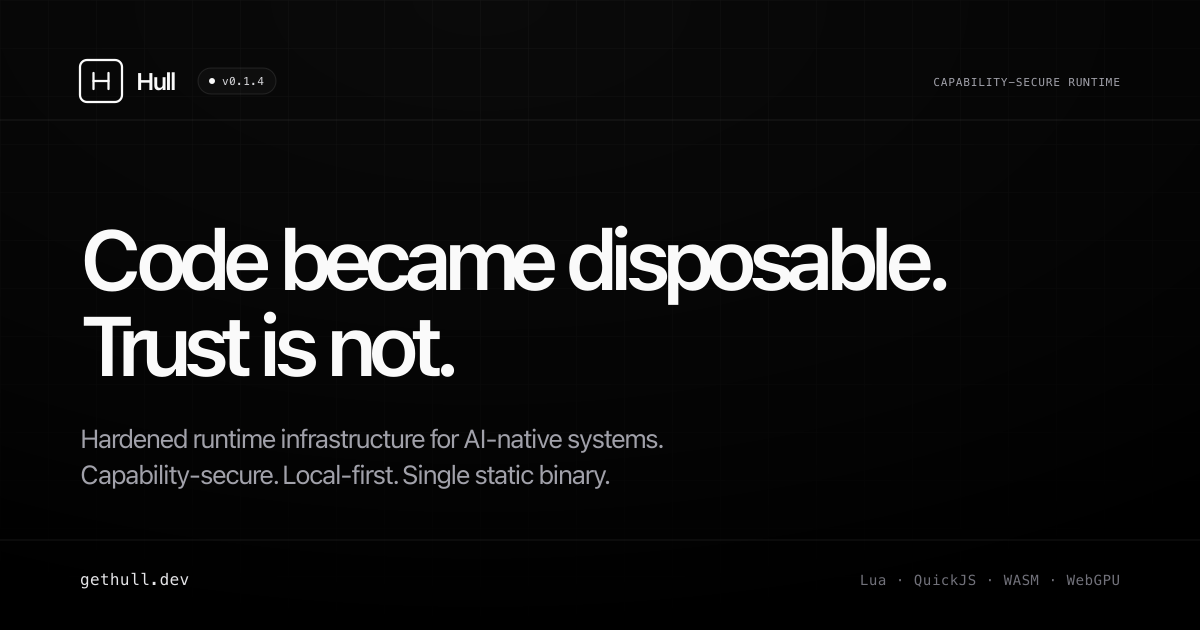
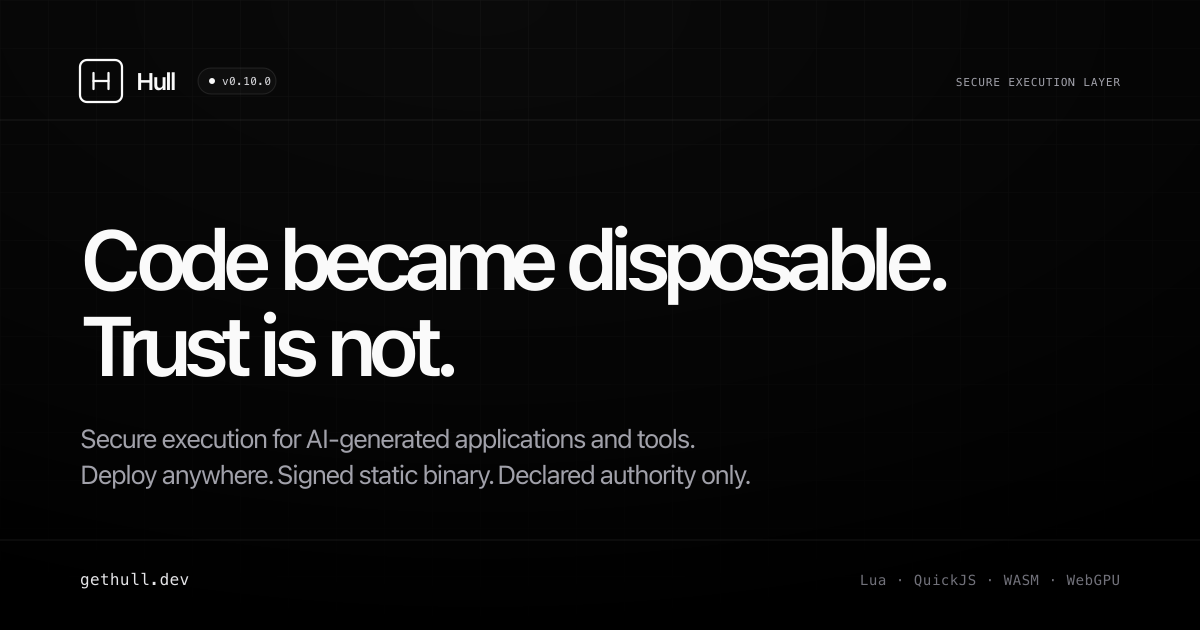
site: position Hull as secure execution for generated code

Changed region(s): [[0.0617, 0.6635, 0.6167, 0.7841], [0.7708, 0.1206, 0.925, 0.1508]]

diff --git a/site/index.html b/site/index.html
@@ -3,19 +3,19 @@
 <head>
   <meta charset="utf-8">
   <meta name="viewport" content="width=device-width, initial-scale=1">
-  <title>Hull. Hardened runtime for AI-native systems</title>
-  <meta name="description" content="Code became disposable. Trust is not. Hull is a hardened, capability-secure runtime for AI-native systems. Local-first, single static binary, every capability declared in the manifest and checked at a kernel-enforced boundary the script cannot cross.">
+  <title>Hull. Secure execution for AI-generated code</title>
+  <meta name="description" content="Run AI-generated applications and tools without ambient access to your machine, network, credentials, or data. Hull packages each app as a signed static binary and enforces declared capabilities at the OS boundary.">
   <meta name="theme-color" content="#0a0a0a">
 
-  <meta property="og:title" content="Hull. Hardened runtime for AI-native systems">
-  <meta property="og:description" content="Code became disposable. Trust is not. Hardened, capability-secure runtime for AI-native systems. Local-first, single static binary, kernel-sandboxed, W^X.">
+  <meta property="og:title" content="Hull. Secure execution for AI-generated code">
+  <meta property="og:description" content="Code became disposable. Trust is not. The portable trust boundary for AI-generated applications and tools.">
   <meta property="og:type" content="website">
   <meta property="og:url" content="https://gethull.dev/">
   <meta property="og:image" content="https://gethull.dev/og-card.png">
   <meta property="og:image:type" content="image/png">
   <meta property="og:image:width" content="1200">
   <meta property="og:image:height" content="630">
-  <meta property="og:image:alt" content="Hull. Code became disposable. Trust is not. Hardened runtime infrastructure for AI-native systems.">
+  <meta property="og:image:alt" content="Hull. Code became disposable. Trust is not. Secure execution for AI-generated code.">
   <meta name="twitter:card" content="summary_large_image">
   <meta name="twitter:image" content="https://gethull.dev/og-card.png">
   <meta name="twitter:image:alt" content="Hull. Code became disposable. Trust is not.">
@@ -32,7 +32,7 @@
     "applicationCategory": "DeveloperApplication",
     "applicationSubCategory": "Runtime",
     "operatingSystem": "Linux, macOS, Windows (via Cosmopolitan), FreeBSD, OpenBSD, NetBSD",
-    "description": "Hardened, capability-secure runtime for AI-native systems. Code became disposable; trust is not. Every external capability (filesystem, network, env, process) is declared in the manifest and checked at a kernel-enforced boundary the script cannot cross. Local-first, single static binary, only the bootstrap registration API is intrinsic.",
+    "description": "Secure execution for AI-generated applications and tools. Every external capability is declared in the manifest and checked at an OS-enforced boundary the script cannot cross. Local-first, deploy-anywhere, and packaged as a signed static binary.",
     "softwareVersion": "0.10.0",
     "url": "https://gethull.dev/",
     "downloadUrl": "https://github.com/artalis-io/hull/releases",
@@ -231,15 +231,10 @@
       </a>
 
       <nav class="hidden md:flex items-center gap-x-6 text-sm">
+        <a href="#use-cases" class="link">Use cases</a>
+        <a href="#platforms" class="link">Platform fit</a>
+        <a href="#how" class="link">Security model</a>
         <a href="#not" class="link">Scope</a>
-        <a href="#principles" class="link">Principles</a>
-        <a href="#composability" class="link">Composable</a>
-        <a href="#agents" class="link">Agents</a>
-        <a href="#compare" class="link">Compare</a>
-        <a href="#how" class="link">How</a>
-        <a href="#stdlib" class="link">Stdlib</a>
-        <a href="#security" class="link">Security</a>
-        <a href="#trust" class="link">Trust chain</a>
         <a href="/verify.html" class="link">Verify</a>
         <a href="https://github.com/artalis-io/hull#readme" class="link">Docs</a>
       </nav>
@@ -265,7 +260,7 @@
         <div class="lg:col-span-7">
           <a href="#agents" class="inline-flex items-center gap-2 px-3 py-1 rounded-full border border-white/10 bg-white/[0.025] hover:bg-white/[0.05] hover:border-white/20 transition text-[11px] text-mute-400 hover:text-paper-100 mb-6">
             <i data-lucide="zap" class="w-3 h-3 shrink-0"></i>
-            <span>Built for code you almost trust</span>
+            <span>The execution boundary beneath your agents</span>
             <i data-lucide="arrow-right" class="w-3 h-3 shrink-0"></i>
           </a>
 
@@ -275,20 +270,20 @@
           </h1>
 
           <p class="mt-6 text-base md:text-lg text-mute-400 max-w-xl leading-relaxed">
-            Hardened, capability-secure runtime infrastructure for
-            AI-native systems. AI generates code endlessly.
-            Hull constrains what it can actually do, at a
-            kernel-enforced boundary the script cannot cross.
+            Run AI-generated applications and tools without giving their
+            code ambient access to your machine, network, credentials, or
+            data. Hull packages each app as a signed static binary and
+            enforces its declared capabilities at the OS boundary.
           </p>
 
           <div class="mt-8 flex flex-wrap items-center gap-3">
-            <a href="https://github.com/artalis-io/hull#readme" class="btn btn-primary">
-              Read the docs
+            <a href="https://github.com/artalis-io/hull#quick-start" class="btn btn-primary">
+              Run a constrained app
               <i data-lucide="arrow-right" class="w-4 h-4"></i>
             </a>
-            <a href="https://github.com/artalis-io/hull" class="btn btn-ghost">
-              <i data-lucide="github" class="w-4 h-4"></i>
-              View on GitHub
+            <a href="#how" class="btn btn-ghost">
+              <i data-lucide="shield-check" class="w-4 h-4"></i>
+              See the security model
             </a>
           </div>
 
@@ -307,7 +302,7 @@
             </div>
             <div class="flex items-center gap-2">
               <i data-lucide="hard-drive" class="w-3.5 h-3.5"></i>
-              <span>Linux &middot; macOS &middot; APE</span>
+              <span>Local &middot; edge &middot; on-prem &middot; air-gapped</span>
             </div>
           </div>
         </div>
@@ -401,34 +396,99 @@
         <div class="bg-ink-900 p-6">
           <div class="text-xs uppercase tracking-widest text-mute-500 mb-3">What</div>
           <h3 class="text-paper-50 font-medium leading-snug mb-3">
-            Hardened runtime infrastructure for AI-native systems.
+            The hardened execution layer for AI-generated code.
           </h3>
           <p class="text-sm text-mute-400 leading-relaxed">
-            Lua, JavaScript, and WASM execute under declared, kernel-enforced
-            capability boundaries. SQLite storage by default; PostgreSQL and
-            MySQL/MariaDB over pure-C wire clients compose in as opt-in
-            features. Single static binary, around five megabytes. Runs on
-            every desktop OS from one file. No daemon, no service mesh, no
-            installer.
+            Your model or agent platform chooses what code to run. Hull decides
+            what that code may do. Lua, JavaScript, and WASM execute under
+            declared capability boundaries in one independently deployable
+            binary. No resident control plane, package manager, or service mesh.
           </p>
         </div>
 
         <div class="bg-ink-900 p-6">
           <div class="text-xs uppercase tracking-widest text-mute-500 mb-3">How</div>
           <h3 class="text-paper-50 font-medium leading-snug mb-3">
-            Every external capability is declared. The kernel enforces it.
+            The security contract travels with the application.
           </h3>
           <p class="text-sm text-mute-400 leading-relaxed">
-            The app&rsquo;s manifest lists files, hosts, env vars, and GPU
-            devices. Undeclared access fails at load.
+            The signed manifest lists files, hosts, env vars, and GPU devices.
+            Undeclared access fails at load or at the native capability boundary.
             <code class="text-paper-100 text-[0.78rem]">pledge</code> +
             <code class="text-paper-100 text-[0.78rem]">unveil</code>
             (Linux/Cosmo/OpenBSD) or Seatbelt (macOS) backs the policy at
             the syscall layer. Signed releases and reproducible builds
-            make the whole chain auditable end-to-end.
+            make the chain auditable from source to deployed binary.
           </p>
         </div>
 
+      </div>
+    </div>
+  </section>
+
+  <!-- USE CASES. Lead with the work Hull enables before the implementation proof. -->
+  <section id="use-cases" class="hairline-t">
+    <div class="max-w-6xl mx-auto px-6 py-20 md:py-24">
+      <div class="max-w-2xl">
+        <div class="text-xs uppercase tracking-widest text-mute-500 mb-3">Use cases</div>
+        <h2 class="text-2xl md:text-3xl font-semibold text-paper-50 tracking-tight">Code you did not write. Authority you still control.</h2>
+        <p class="mt-4 text-sm md:text-base text-mute-400 leading-relaxed">
+          Hull gives generated software a narrow, reviewable operating envelope.
+          Use it wherever an agent can create or invoke code, but the code must not
+          inherit the authority of the machine running it.
+        </p>
+      </div>
+      <div class="mt-10 grid md:grid-cols-3 gap-px bg-white/[0.06] border border-white/[0.06] rounded-md overflow-hidden">
+        <div class="bg-ink-900 p-6">
+          <i data-lucide="bot" class="w-5 h-5 text-paper-100 mb-4"></i>
+          <h3 class="text-paper-50 font-medium">Run agent-generated tools</h3>
+          <p class="mt-2 text-sm text-mute-400 leading-relaxed">Expose a small callable interface while denying undeclared filesystem, network, environment, and process access. The agent may write the handler; it cannot silently expand the tool's authority.</p>
+        </div>
+        <div class="bg-ink-900 p-6">
+          <i data-lucide="workflow" class="w-5 h-5 text-paper-100 mb-4"></i>
+          <h3 class="text-paper-50 font-medium">Ship internal automation</h3>
+          <p class="mt-2 text-sm text-mute-400 leading-relaxed">Package application code, runtime, dependencies, and policy into one signed binary. Run predictable work as deterministic code and call a model only where judgment adds value.</p>
+        </div>
+        <div class="bg-ink-900 p-6">
+          <i data-lucide="radio-tower" class="w-5 h-5 text-paper-100 mb-4"></i>
+          <h3 class="text-paper-50 font-medium">Deploy beyond the cloud boundary</h3>
+          <p class="mt-2 text-sm text-mute-400 leading-relaxed">Keep the same signed capability contract on developer machines, edge nodes, customer premises, and isolated networks. Horizontal scaling remains a choice for your platform, not a runtime dependency.</p>
+        </div>
+      </div>
+    </div>
+  </section>
+
+  <!-- PLATFORM RELATIONSHIP. Hull is the execution boundary, not an agent workspace. -->
+  <section id="platforms" class="hairline-t bg-ink-900/30">
+    <div class="max-w-6xl mx-auto px-6 py-20 md:py-24">
+      <div class="grid lg:grid-cols-12 gap-10 lg:gap-16 items-start">
+        <div class="lg:col-span-5">
+          <div class="text-xs uppercase tracking-widest text-mute-500 mb-3">Works beneath your stack</div>
+          <h2 class="text-2xl md:text-3xl font-semibold text-paper-50 tracking-tight">Your agent platform decides what to run. Hull decides what that code may do.</h2>
+          <p class="mt-6 text-mute-400 leading-relaxed">Hull is not an enterprise agent workspace, identity system, model router, or autoscaler. It is the portable execution boundary underneath agents, workflows, MCP clients, and coding tools.</p>
+          <p class="mt-4 text-mute-400 leading-relaxed">Use Hull with your existing model, orchestrator, and deployment platform, or run it without any of them. The manifest and enforcement stay with the binary wherever it goes.</p>
+        </div>
+        <div class="lg:col-span-7 border border-white/[0.08] rounded-md bg-ink-950 p-6 md:p-8">
+          <div class="text-[10px] uppercase tracking-widest text-mute-500 mb-6">Responsibility boundary</div>
+          <div class="space-y-3 text-sm">
+            <div class="border border-white/[0.08] rounded-md bg-white/[0.025] p-4"><div class="text-paper-50 font-medium">Agent, model, workflow, or developer tool</div><div class="mt-1 text-mute-400">Chooses or generates the application code</div></div>
+            <div class="flex justify-center text-mute-500"><i data-lucide="arrow-down" class="w-4 h-4"></i></div>
+            <div class="border border-accent/30 rounded-md bg-accent/[0.04] p-4"><div class="text-paper-50 font-medium">Signed Hull application</div><div class="mt-1 text-mute-400">Declares the exact modules, hosts, paths, environment, process, and compute authority</div></div>
+            <div class="flex justify-center text-mute-500"><i data-lucide="arrow-down" class="w-4 h-4"></i></div>
+            <div class="border border-white/[0.08] rounded-md bg-white/[0.025] p-4"><div class="text-paper-50 font-medium">Native capability layer and OS sandbox</div><div class="mt-1 text-mute-400">Allows declared operations and rejects everything else</div></div>
+            <div class="flex justify-center text-mute-500"><i data-lucide="arrow-down" class="w-4 h-4"></i></div>
+            <div class="grid sm:grid-cols-5 gap-2 text-center text-[12px] text-mute-400">
+              <div class="border border-white/[0.06] rounded p-2">Filesystem</div><div class="border border-white/[0.06] rounded p-2">Network</div><div class="border border-white/[0.06] rounded p-2">Database</div><div class="border border-white/[0.06] rounded p-2">Process</div><div class="border border-white/[0.06] rounded p-2">GPU / WASM</div>
+            </div>
+          </div>
+        </div>
+      </div>
+      <div class="mt-12 border border-white/[0.08] rounded-md overflow-hidden">
+        <div class="grid md:grid-cols-3 gap-px bg-white/[0.06]">
+          <div class="bg-ink-900 p-5"><div class="text-xs uppercase tracking-widest text-mute-500">Cloud agent platforms</div><p class="mt-3 text-sm text-mute-400 leading-relaxed">Govern identities, collaboration, models, and connected company resources inside their platform.</p></div>
+          <div class="bg-ink-900 p-5"><div class="text-xs uppercase tracking-widest text-paper-50">Hull</div><p class="mt-3 text-sm text-mute-400 leading-relaxed">Constrains generated code in a signed, independently deployable application wherever it must run.</p></div>
+          <div class="bg-ink-900 p-5"><div class="text-xs uppercase tracking-widest text-mute-500">Your infrastructure</div><p class="mt-3 text-sm text-mute-400 leading-relaxed">Provides identity, placement, scaling, scheduling, and operations according to your environment.</p></div>
+        </div>
       </div>
     </div>
   </section>
@@ -771,11 +831,11 @@ hull v0.10.0  &middot;  ca-bundle: embedded  &middot;  platform: embedded  &midd
         <div class="lg:col-span-5">
           <div class="text-xs uppercase tracking-widest text-mute-500 mb-3">For agents</div>
           <h2 class="text-2xl md:text-3xl font-semibold text-paper-50 tracking-tight">
-            The runtime agents
-            already live in.
+            The execution boundary
+            beneath your agents.
           </h2>
           <p class="mt-6 text-mute-400 leading-relaxed">
-            Hull is built for both sides of the agent loop:
+            Hull works with any model or orchestrator. It is built for both sides of the agent loop:
             hosting LLM-callable tools behind a manifest the model
             can't write to, and giving AI coding agents a structured
             CLI surface to read, test, and deploy Hull apps.
@@ -917,6 +977,11 @@ hull v0.10.0  &middot;  ca-bundle: embedded  &middot;  platform: embedded  &midd
             combination. Manifest-declared capabilities,
             sealed signed bundles, kernel sandboxing, and no
             runtime codegen in one binary.
+          </p>
+          <p class="mt-4 text-sm text-mute-400 leading-relaxed">
+            This table compares execution runtimes. Agent workspaces and cloud
+            application platforms sit above that layer; Hull can run beneath or
+            independently of them.
           </p>
           <p class="mt-4 text-xs text-mute-400 leading-relaxed">
             Marks reflect default configurations.
